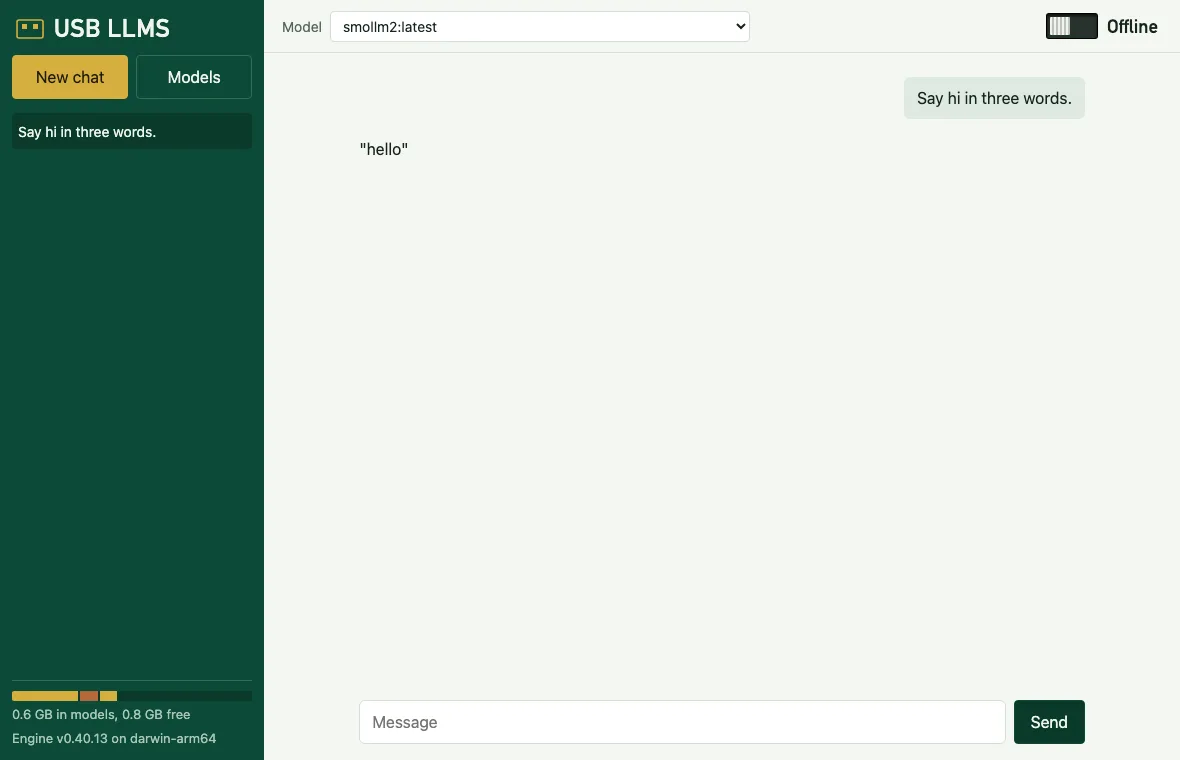
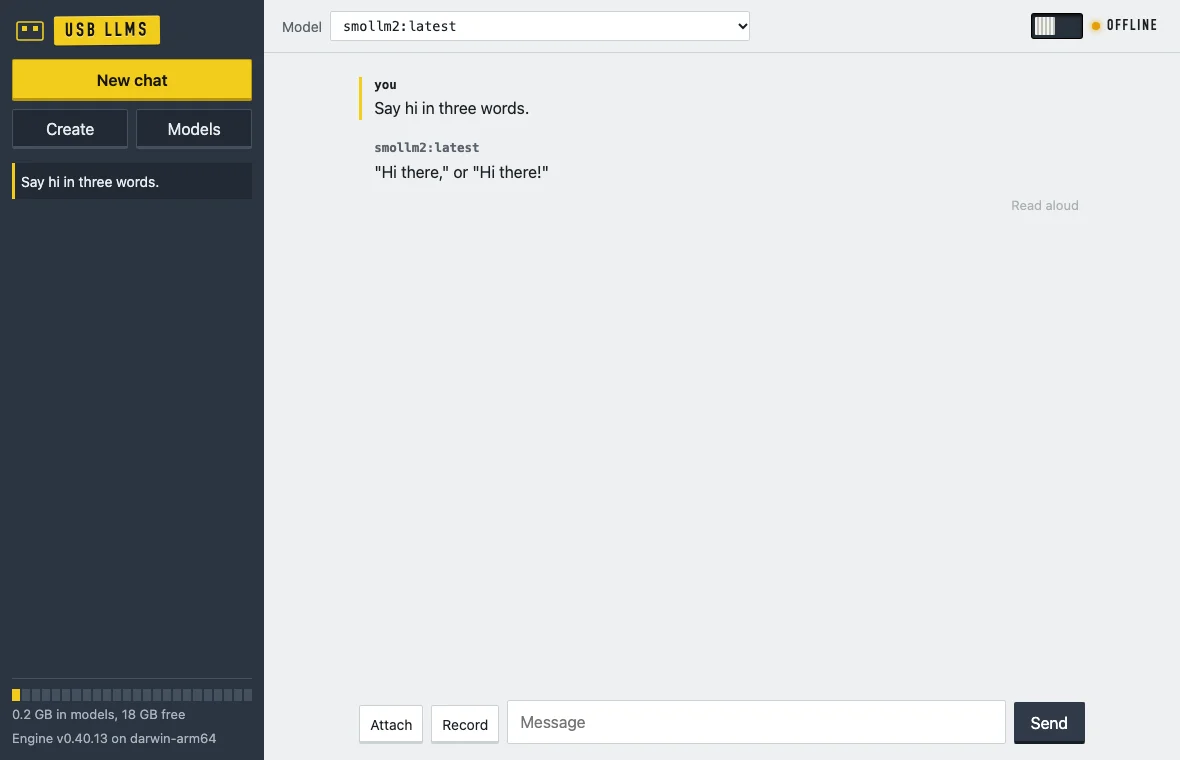
New screenshots and demo for the new look; README menu matches the terminal

diff --git a/README.md b/README.md
@@ -103,18 +103,20 @@ Linux and macOS engines are unpacked as they download, so the archive never land
 
 <table>
 <tr>
-<td><img src="docs/images/chat.webp" alt="Chat in the web interface, with the Offline switch at the top right"></td>
+<td><img src="docs/images/chat.webp" alt="Chat in the web interface: each message under the name of who wrote it, and the offline switch with its status light at the top right"></td>
 <td><img src="docs/images/models.webp" alt="Models page with installed models and suggested models"></td>
 <td width="170"><img src="docs/images/phone.webp" alt="The web interface on a phone-sized screen"></td>
 </tr>
 </table>
 
 ```
-USB LLMS  offline  darwin-arm64
+ U S B  L L M S   ● offline   darwin-arm64
+▮▮▯▯▯▯▯▯▯▯▯▯▯▯▯▯▯▯▯▯▯▯▯▯  2.1 GB in models, 24.0 GB free
 
 > Chat
   Models on this drive
   Add a model
+  Create a picture, video, speech, music or 3D model
   Switch to online
   Open the web interface
   Open the app window
